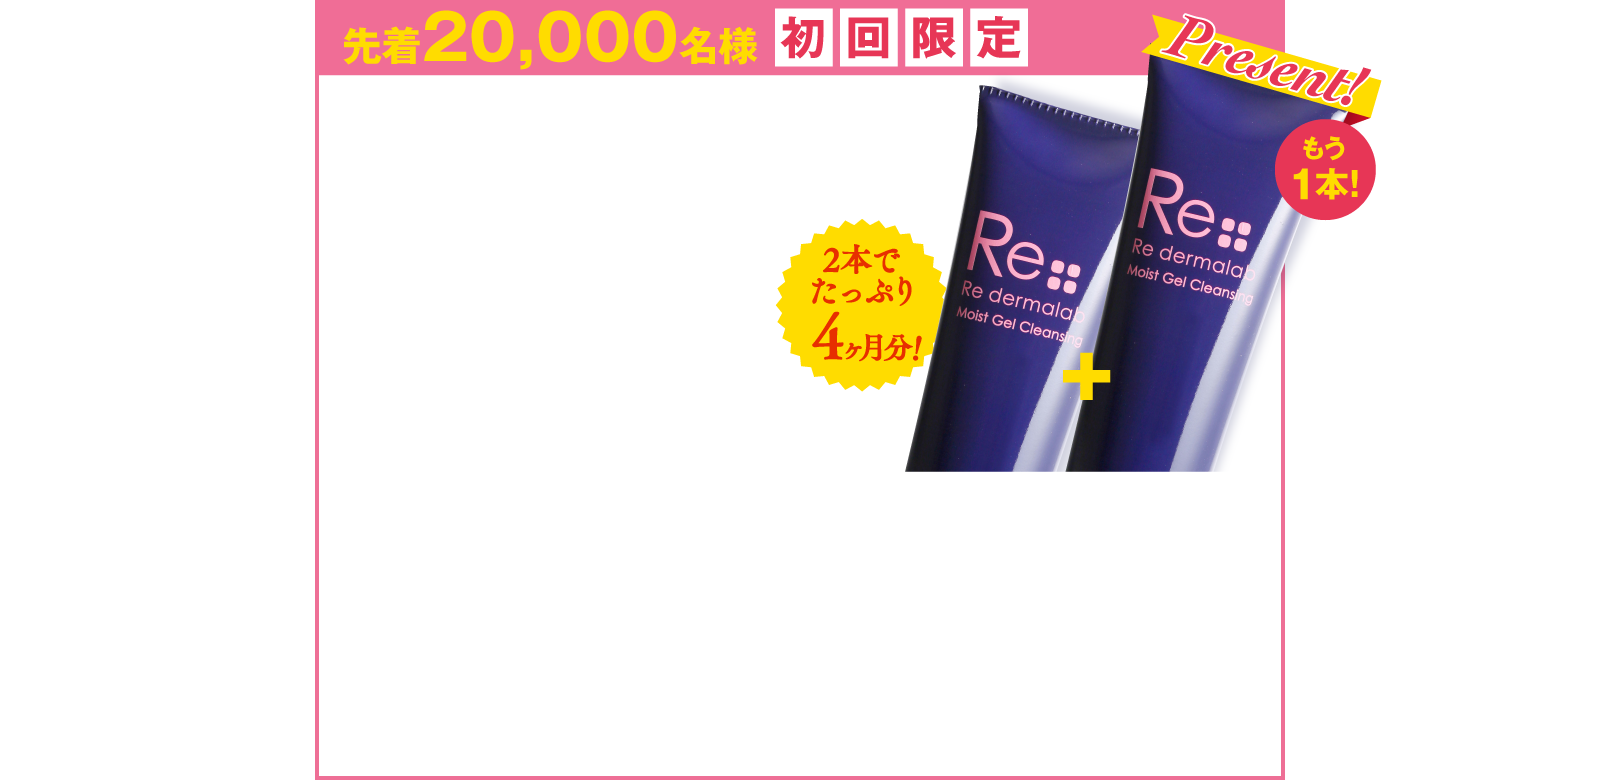
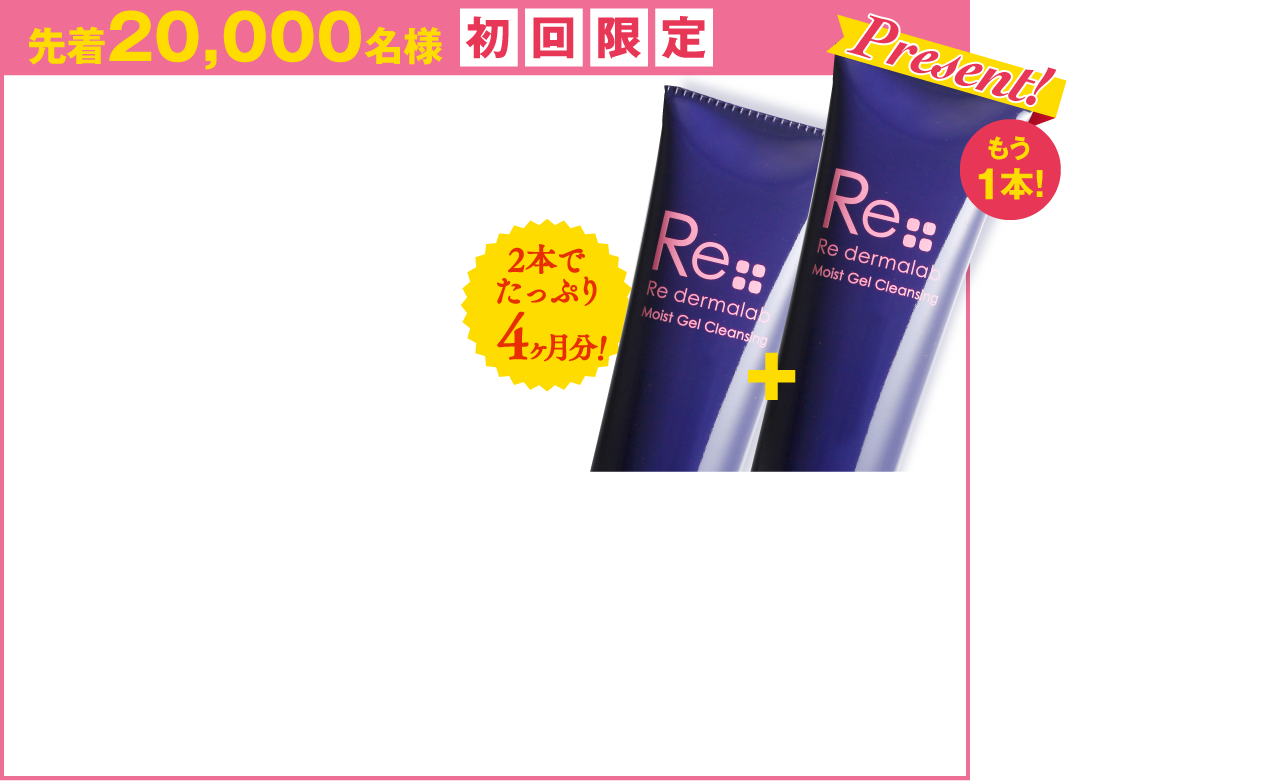
クレンジングLP作成
・ゲルとの共通部分は共通部分に配置

Changed region(s): [[0.0, 0.0, 0.8716, 0.6154], [0.0, 0.9846, 0.8093, 1.0]]

diff --git a/pc-cleansing.html b/pc-cleansing.html
@@ -37,12 +37,12 @@
                             <img src="images/cleansing/banner-header4.png" id="banner-header4" alt="美容液みたいな洗うエイジングケア">
                         </h1>
                     </header><!-- /header -->
+                    <section id="header-offer" class="main-offer">
+                        <h2><img src="images/cleansing/banner-main-offer1.png" alt="洗うエイジングケア モイストゲルクレンジング（本品150g）をもう1本プレゼント！"></h2>
+                        <img src="images/cleansing/banner-main-offer2.png" alt="全額返金保証・送料無料・150g 約2ヶ月分が2848円（税込3076円）">
+                        <a href=""><img src="images/button-offer-small.png" class="btn-shadow" alt="ご注文はコチラ"></a>
+                    </section>
                 </div>
-                <section id="header-offer">
-                    <h2><img src="images/cleansing/banner-main-offer1.png" alt="洗うエイジングケア モイストゲルクレンジング（本品150g）をもう1本プレゼント！"></h2>
-                    <img src="images/cleansing/banner-main-offer2.png" alt="全額返金保証・送料無料・150g 約2ヶ月分が2848円（税込3076円）">
-                    <a href=""><img src="images/button-offer-small.png" class="btn-shadow" alt="ご注文はコチラ"></a>
-                </section>
             </section>
             <section class="main-column">
                 <img src="images/banner-magazine.jpg" alt="雑誌掲載多数！メディアも大注目！ 雑誌掲載多数！美容賢者はリ・ダーマラボの『モイストゲルプラス』をもうはじめています！ 「CLASSY」12月号、「GLOW」3月号、「Mart」12月号、「おはよう奥さん」9月号、「CamCan」9月号 and more!">
@@ -75,31 +75,134 @@
                     </div>
                 </section>
             </div>
-
-            <section id="header-offer">
-                <h2><img src="images/cleansing/banner-main-offer1.png" alt="洗うエイジングケア モイストゲルクレンジング（本品150g）をもう1本プレゼント！"></h2>
-                <img src="images/cleansing/banner-main-offer2.png" alt="全額返金保証・送料無料・150g 約2ヶ月分が2848円（税込3076円）">
-                <a href=""><img src="images/button-offer-small.png" class="btn-shadow" alt="ご注文はコチラ"></a>
+            <div class="main-column">
+                <section class="main-offer sub-offer">
+                    <h2><img src="images/cleansing/banner-main-offer1.png" alt="洗うエイジングケア モイストゲルクレンジング（本品150g）をもう1本プレゼント！"></h2>
+                    <img src="images/cleansing/banner-main-offer2.png" alt="全額返金保証・送料無料・150g 約2ヶ月分が2848円（税込3076円）">
+                    <a href=""><img src="images/button-offer-small.png" class="btn-shadow" alt="ご注文はコチラ"></a>
+                </section>
+            </div>
+            <div class="bg-pink">
+                <section id="enquete" class="main-column">
+                    <header>
+                        <h2><img src="images/cleansing/header-enquete.png" alt="ダブル洗顔をやめて２週間で、93%が変化を実感！ 「今後も継続したい！」98% 「メイク落ちが良い」100% 「洗いあがりがつっぱらない！」97% 「次に使うスキンケアの浸透が良い」93% 「くすみに効果が！」76% 「黒ずみ毛穴が目立たなくなる！」 75% "></h2>
+                    </header><!-- /header -->
+                    <section>
+                        <img src="images/cleansing/banner-enquete1.jpg" alt="使い心地満足度99% 「キメが整う！」→82%、「ハリ・弾力に手応えあり！」→92%、「潤い実感！」→99%、「肌にやさしい」→100% 「今後も使いたいという人」→90%">
+                    </section>
+                    <section>
+                        <header>
+                            <h3><img src="images/cleansing/header-break-own-record.png" alt="年齢ギャップ、自己ベスト更新中！ うれしいお声が届いています。"></h3>
+                        </header><!-- /header -->
+                        <ul>
+                            <li>
+                                <div class="left face">
+                                    <img src="images/cleansing/monitor1/face.png" alt="モニター1人目顔写真">
+                                </div>
+                                <div class="left description">
+                                    <img src="images/cleansing/monitor1/header.png" class="monitor-header" alt="「今までのクレンジングは何だったの？！」">
+                                    <div>
+                                        <img src="images/cleansing/monitor1/profile.png" class="monitor-profile left" alt="31歳 愛用歴９ヶ月 目標年齢ギャップ-３歳">
+                                        <p class="monitor-opinion right">
+                                            ゲルが肌に吸いつくようにのび、<em>プニプニとした新感触の「こんにゃくスクラブ」でのマッサージが、とにかく気持ちイイ！</em> つるんとしたすべすべの洗いあがりに、やみつきです。
+                                        </p>
+                                    </div>
+                                </div>
+                            </li>
+                            <li>
+                                <div class="left face">
+                                    <img src="images/cleansing/monitor2/face.png" alt="モニター2人目顔写真">
+                                </div>
+                                <div class="left description">
+                                    <img src="images/cleansing/monitor2/header.png" class="monitor-header" alt="「W洗顔不要は本当！よく落ちるのに乾かない！」">
+                                    <div>
+                                        <img src="images/cleansing/monitor2/profile.png" class="monitor-profile left" alt="39歳 愛用歴２年 目標年齢ギャップ-11歳">
+                                        <p class="monitor-opinion right">
+                                            ダブル洗顔不要と聞いて、最初は大丈夫なの？？ って。でもクレンジング後に使った化粧水のコットンが本当にキレイだったんです！<em> オイルクレンジングでも落ちなかった毛穴よごれもスッキリ。</em>
+                                        </p>
+                                    </div>
+                                </div>
+                            </li>
+                            <li>
+                                <div class="left face">
+                                    <img src="images/cleansing/monitor3/face.png" alt="モニター3人目顔写真">
+                                </div>
+                                <div class="left description">
+                                    <img src="images/cleansing/monitor3/header.png" class="monitor-header" alt="「化粧水の入りも良くなった！」">
+                                    <div>
+                                        <img src="images/cleansing/monitor3/profile.png" class="monitor-profile left" alt="47歳 愛用歴２年 目標年齢ギャップ-８歳">
+                                        <p class="monitor-opinion right">
+                                            私は乾燥で湿疹みたいに肌がボロボロとなってしまうくらいの、敏感な肌。<em>スクラブ入りなので少し不安に思いながらも使ってみたら、汚れはスッキリ、肌はもっちり！</em> 大満足です。
+                                        </p>
+                                    </div>
+                                </div>
+                            </li>
+                        </ul>
+                    </section>
+                </section>
+                <section class="main-column" id="blogger">
+                    <header>
+                        <h3><img src="images/header-blogger.png" alt="ブロガーにも大反響"></h3>
+                    </header><!-- /header -->
+                    <ul>
+                        <li>
+                            <header>
+                                <h3><img src="images/cleansing/blogger1/header.png" alt="温泉に入った後みたいな潤い！"></h3>
+                            </header>
+                            <img src="images/cleansing/blogger1/image.png" alt="うるおいイメージ画像">
+                            <div class="left">
+                                お湯で洗い流すと、かなり<em>ぷるぷる潤い肌</em>になっていて驚いた！ 化粧水の吸収も良くなった気が。
+                            </div>
+                            <img src="images/cleansing/blogger1/badge.png" alt="shinoさん">
+                        </li>
+                        <li>
+                            <header>
+                                <h3><img src="images/cleansing/blogger2/header.png" alt="たった１会で毛穴が目立たなくなりました"></h3>
+                            </header>
+                            <img src="images/cleansing/blogger2/image.png" alt="毛穴が目立たなくなったイメージ画像">
+                            <div class="left">
+                                <em>こんなにスッキリ</em>するのに全然刺激がないし、洗顔後も潤って気持ちいいです。
+                            </div>
+                            <img src="images/cleansing/blogger2/badge.png" alt="Chimaさん">
+                        </li>
+                        <li>
+                            <header>
+                                <h3><img src="images/cleansing/blogger3/header.png" alt="ダブル洗顔不要というだけあり！"></h3>
+                            </header>
+                            <img src="images/cleansing/blogger3/image.png" alt="洗浄力イメージ画像">
+                            <div class="left">
+                                <em>つぶつぶこんにゃくのスクラブ</em>がなくなるまで、くるくるっとやさしくマッサージ〜。
+                            </div>
+                            <img src="images/cleansing/blogger3/badge.png" alt="さちこさん">
+                        </li>
+                    </ul>
+                </section>
+            </div>
+            <div class="bg-blue">
+                <section class="main-column">
+                    <header>
+                        <h2><img src="images/cleansing/header-doctor.jpg" alt="緊急REPORT ドクターの提言（医学博士 永井尚生） 「毎日の洗顔がエイジングを加速させる！？ 間違ったダブル洗顔が、肌へのダメージの原因です。」 美容皮膚科に相談にやって来る患者さんには、まず洗顔方法について指導します。それは長年の誤った洗顔方法の癖が抜けずに、肌を荒れさせてしまっていることが多いため。ただし、過剰に皮脂を落とし過ぎても、こすって刺激を与え過ぎてもいけません。日々の洗顔をおざなりにすると、バリア機能の低下や乾燥、テカリや色ムラといった肌トラブルが重なり、老化を加速させてしまいます。いろいろなメイク落としや洗顔料が販売されていますが、実はこの「洗浄力』と「保湿力」を両立することがなにより難しいのです。 洗顔は肌の保湿成分を奪いすぎかねない難しいスキンケアステップ。「1.保湿成分を補うこと」「2.肌のバリア機能を損なわないこと」「3.肌のターンオーバーを正常化すること」この３つが実現できれば、すこやかな状態をキープできるのです。 また、時間に追われる現代女性のためには、ストレスなく、なるべく少ない回数で洗顔ステップを終えることがていねいな洗顔への近道。リ・ダーマラボがこだわったのは「保湿力のある洗浄成分」と「ダブル洗顔をやめる」こと。 「モイストゲルクレンジング」の洗浄成分は、すべて一般的に美容液に配合されている保湿成分であり、毛穴よごれや古い角質をオフするため、刺激が少ない「こんにゃく由来のスクラブ」を採用。これまでにない、１ステップでの潤い洗顔を実現しました。"></h2>
+                    </header><!-- /header -->
+                    <p><img src="images/cleansing/banner-QA.jpg" alt="Q1.敏感肌なのですが、スクラブ入りを使うのはちょっと… A1.赤ちゃん用スポンジでもおなじみ「こんにゃくスクラブ」なので、とにかくやわらかく、プルプルとしたクッション力で、肌への負担の少ない設計になっています。 Q2.ダブル洗顔しないと、すすぎ残しがどうしても不安です。 A2.メイクや肌の汚れはクレンジング力のある保湿成分で落とし、古い角質や毛穴の汚れはこんにゃくスクラブが落とすため、ぬるま湯ですすぐだけで、スッキリなのにツルツルの洗いあがりを実現します。不安な方は、最初はすすぎの時間を眺めにとってみましょう。 Q3.全成分を教えてください。A3.水、ヤシ油脂肪酸PEG-7グリセリル、プロパンジオール、グリセリン、1,2-ヘキサンジオール、マンナン、カルボマー、水酸化K、ペンチレングリコール、オレンジ油、グレープフルーツ果皮油、エンピツジャンクシン油、アトラスシーダー樹皮油、ニオイテンジクアオイ油、セイヨウハッカ油、グリチルリチン酸2K、ビターオレンジ花油、セレブロシド、タウリン、BG、加水分解ヒアルロン酸、グリコール酸、リシンHCl、グルタミン酸、グリシン、ロイシン、ヒスチジンHCｌ、セリン、バリン、アスパラギン酸Na、トレオニン、アラニン、イソロイシン、アラントイン、フェニルアラニン、アルギニン、プロリン、アセチルヒアルロン酸、リン酸アスコルビルMg、テトラヘキシルデカン酸アスコルビル、チロシン、イノシン酸2Na、グアニル酸2Na、ベニバナ花エキス、イザヨイバラエキス、ヒアルロン酸Na、ユビキノン リ・ダーマラボは、商品の実力で応えるだけではなく、ご購入者さまからの肌についてのご相談・商品への質問に関して、医師自らメール回答するオンラインカウンセラーで万全のアフターケア体制を整えています。ぜひお気軽にご相談ください。 ※他社商品に関係するご質問やご相談などお応えできないものもございます。予めご了承ください。"></p>
+                </section>
+            </div>
+            <section class="bg-white" id="offer-long">
+                <header class="bg-red">
+                    <h2 class="main-column"><img src="images/cleansing/header-offer-long.png" alt="先着20000名様 初回限定 春肌立て直しキャンペーン！"></h2>
+                </header><!-- /header -->
+                <div class="main-column">
+                    <img src="images/cleansing/banner-offer-long.jpg" alt="肌変化をしっかり実感してほしいから 今だけさらに！ モイストゲルクレンジング（本品150g）をもう１本プレゼント！ 全額返金保証 送料無料 150g 約２ヶ月分を2848円（税込3076円）で。">
+                    <a href=""><img class="btn-shadow" src="images/button-offer.png" alt="ご注文はコチラ"></a>
+                </div>
             </section>
-
-            <section>
-                もう1本プレゼント！
-            </section>
-            <section>
-                ダブル洗顔をやめて2週刊で、93%が変化を実感！
-            </section>
-            <section>
-                年齢ギャップ、自己ベスト更新！自己ベスト更新中！
-            </section>
-            <section>
-                緊急REPORT ドクターの提言 毎日の洗顔がエイジングを加速させる！？
-            </section>
-            <section>
-                もう1本プレゼント！
-            </section>
-            <section>
-                定期便
-            </section>
+            <div class="bg-yellow">
+                <section class="main-column" id="periodical">
+                    <img src="images/cleansing/banner-periodical.png" alt="毎回15%OFFの定期便サービスも！ 特典１：いつでも15%OFF!+送料無料 特典２：１ヶ月ごと、２ヶ月ごと、３ヶ月ごとに自動的にお届け 特典３：１回だけでもストップ・変更OK！ リ・ダーマラボモイストゲルクレンジング（150g/約２ヶ月分）通常価格2828円（税込3076円）が、定期便価格2421円円（税込2615円）に！">
+                    <div>
+                        <a href=""><img class="btn-shadow" src="images/button-periodical.png" alt="定期便について詳しくはコチラ"></a>
+                    </div>
+                </section>
+            </div>
         </article>
     </div>
 </body>

diff --git a/css/style.css b/css/style.css
@@ -37,11 +37,18 @@ div[class*="bg-"] {
 .bg-yellow {
   background-color: rgb(255,245,218);
 }
+.bg-white {
+  background-color: rgb(255,255,255);
+}
 .left {
   float: left;
 }
 .right {
   float: right;
+}
+.btn-shadow {
+  border-radius: 10px;
+  box-shadow: 0 3px 5px 1px rgba(0, 0, 0, 0.3), 0 0 35px 0px rgba(0, 0, 0, 0.3) inset
 }
 
 #global-header {
@@ -61,6 +68,55 @@ div[class*="bg-"] {
 }
 h2#first-time-only {
   height: 100px;
+}
+#enquete li {
+  height: 256px;
+  margin-bottom: 35px;
+}
+#enquete .face {
+  width: 200px;
+  margin-right: 30px;
+}
+#enquete .description {
+  width: 740px;
+  height: 256px;
+}
+#enquete .description div {
+  height: 216px;
+}
+#enquete .monitor-profile,
+#enquete .monitor-opinion {
+  height: 165px;
+  margin: 35px 0 0  0 ;
+}
+#enquete .monitor-profile {
+  width: 200px;
+  margin-right: 30px;
+}
+#enquete .monitor-opinion {
+  width: 510px;
+  line-height: 2.1em;
+}
+#blogger ul {
+  height: 344px;
+}
+#blogger li {
+  float: left;
+  width: 295px;
+  margin-right: 42.5px;
+}
+#blogger li:last-child {
+  margin-right: 0;
+}
+#blogger li div {
+  width: 200px;
+}
+#periodical {
+  position: relative;
+}
+#periodical div {
+  position: absolute;
+  top: 450px;
 }
 /* ゲルLP */
 #moist-gel #main-header {
@@ -98,55 +154,7 @@ h2#first-time-only {
 #moist-gel #reason section {
   margin-bottom: 20px;
 }
-#moist-gel #enquete li {
-  height: 256px;
-  margin-bottom: 35px;
-}
-#moist-gel #enquete .face {
-  width: 200px;
-  margin-right: 30px;
-}
-#moist-gel #enquete .description {
-  width: 740px;
-  height: 256px;
-}
-#moist-gel #enquete .description div {
-  height: 216px;
-}
-#moist-gel #enquete .monitor-profile,
-#moist-gel #enquete .monitor-opinion {
-  height: 165px;
-  margin: 35px 0 0  0 ;
-}
-#moist-gel #enquete .monitor-profile {
-  width: 200px;
-  margin-right: 30px;
-}
-#moist-gel #enquete .monitor-opinion {
-  width: 510px;
-  line-height: 2.1em;
-}
-#moist-gel #blogger ul {
-  height: 344px;
-}
-#moist-gel #blogger li {
-  float: left;
-  width: 295px;
-  margin-right: 42.5px;
-}
-#moist-gel #blogger li:last-child {
-  margin-right: 0;
-}
-#moist-gel #blogger li div {
-  width: 200px;
-}
-#moist-gel #periodical {
-  position: relative;
-}
-#moist-gel #periodical div {
-  position: absolute;
-  top: 450px;
-}
+
 /* クレンジングLP */
 #cleansing #main-header {
   z-index: -999;
@@ -161,7 +169,7 @@ h2#first-time-only {
   height: 520px;
 }
 #cleansing #main-header img,
-#cleansing #header-offer img {
+#cleansing .main-offer img {
   position: absolute;
 }
 #cleansing #main-header img#banner-header-icon {
@@ -184,27 +192,41 @@ h2#first-time-only {
   top: 360px;
   left: 130px;
 }
-#cleansing #header-offer {
+#cleansing .main-offer {
   position: relative;
-  height: 1600px;
-  min-width: 780px;
-  background: rgba(255,255,255,0) url('../images/cleansing/header-main-offer.png') no-repeat scroll center 0;
+  width: 1285px;
+  height: 780px;
+  margin-left: auto;
+  margin-right: auto;
+  background-image: url('../images/cleansing/header-main-offer.png');
+  background-color: rgba(255,255,255,0);
+  background-repeat: no-repeat;
+  overflow: visible;
 }
-#cleansing #header-offer h2 {
+#cleansing .main-offer h2 {
   position: absolute;
   top: 90px;
-  left: 185px;
+  left: 30px;
   width: 590px;
   margin: 0;
 }
-#cleansing #header-offer > img {
+#cleansing .main-offer > img {
   top: 472px;
-  left: 185px;
+  left: 30px;
 }
-#cleansing #header-offer a img {
+#cleansing .main-offer a img {
   top: 645px;
-  left: 185px;;
+  left: 30px;;
+}
+#cleansing #header-offer {
+  top: 520px;
+}
+#cleansing .sub-offer {
+  margin-top: 80px;
 }
 #cleansing #no-double-cleansing div {
   margin-top: 50px;
+}
+#cleansing #offer-long {
+  padding-top: 80px;
 }

diff --git a/pc-gel.html b/pc-gel.html
@@ -151,7 +151,7 @@
                 </section>
                 <section class="main-column" id="blogger">
                     <header>
-                        <h3><img src="images/gel/header-blogger.png" alt="ブロガーにも大反響"></h3>
+                        <h3><img src="images/header-blogger.png" alt="ブロガーにも大反響"></h3>
                     </header><!-- /header -->
                     <ul>
                         <li>
@@ -182,7 +182,7 @@
                             <div class="left">
                                 エイジングケア成分が豊富だし、<em>中身が空気に触れない</em>エアレスボトルなのもポイントが高い。
                             </div>
-                            <img src="images/gel/blogger3/badge.png" alt="なおまろん。さん">
+                            <img src="images/gel/blogger3/badge.png" alt="ichikaさん">
                         </li>
                     </ul>
                 </section>
